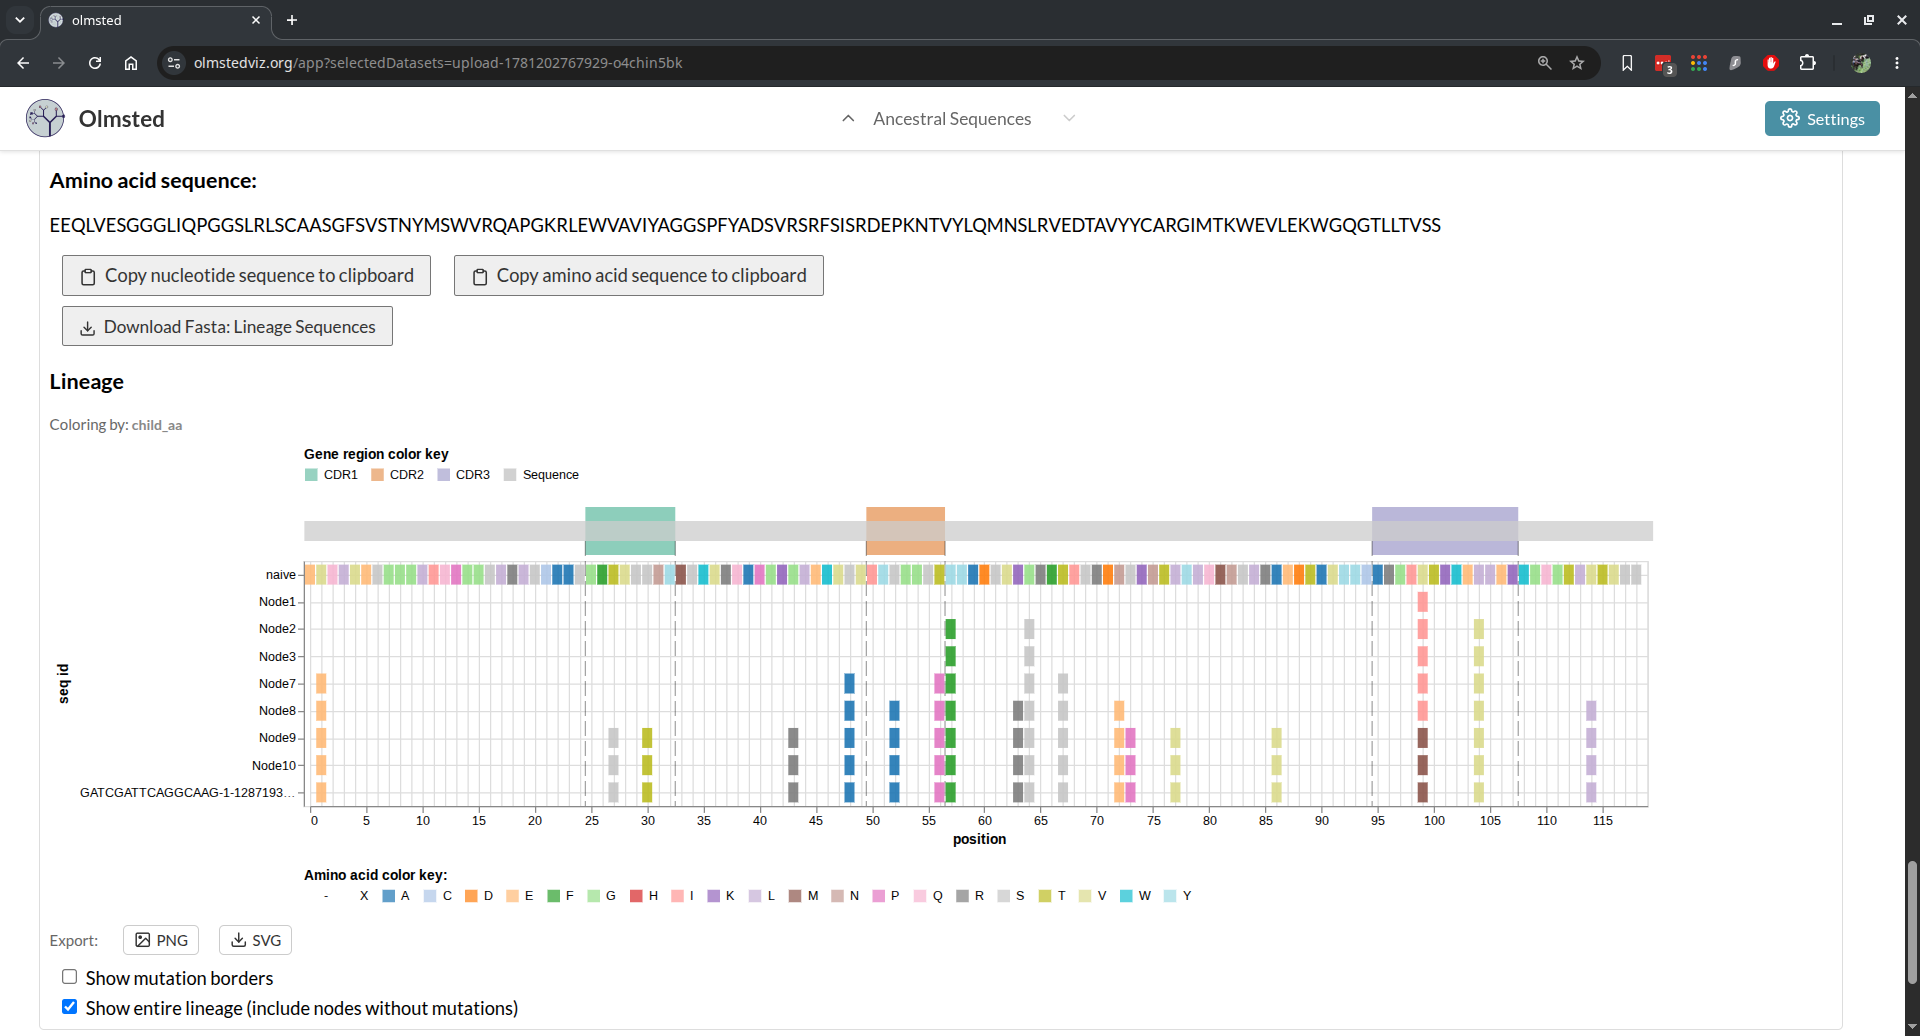
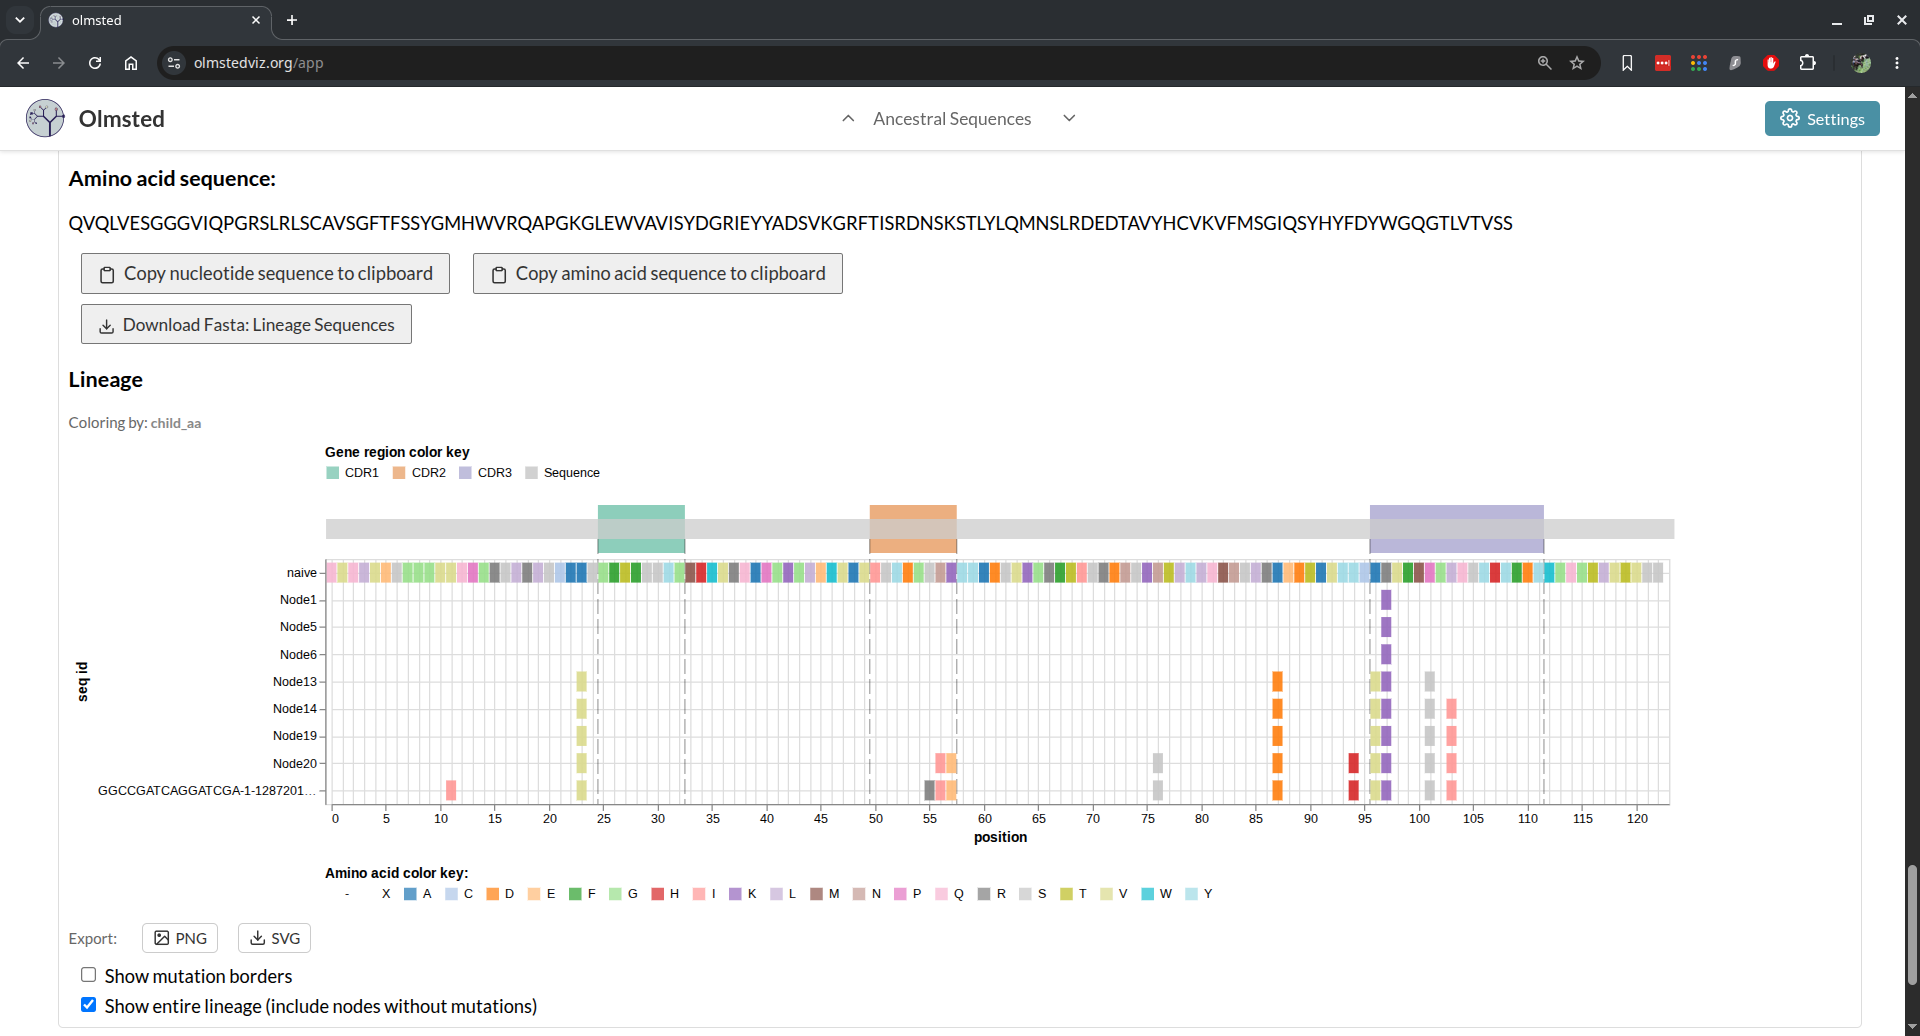
updated images to all section use the same clonal family for example.  Changed V/J to V(D)J.

diff --git a/paper/paper.md b/paper/paper.md
@@ -73,7 +73,7 @@ This multi-scale navigation is delivered through a zero-installation web applica
 Specifically, Olmsted allows users to:
 
 - View all clonal families simultaneously in a configurable scatterplot
-- Filter and select families based on biological criteria (mutation frequency, sequence count, V/J gene usage)
+- Filter and select families based on biological criteria (mutation frequency, sequence count, V(D)J gene usage)
 - Examine phylogenetic trees with aligned sequences showing mutations from the naive ancestor
 - Trace the mutational history of individual sequences back to their germline origin
 - Visualize paired heavy and light chain sequences together, which is essential for selecting antibodies for expression
@@ -126,7 +126,7 @@ Users can brush-select regions or click individual points.
 
 ![Example scatterplot.](./images/2-02-scatterplot.png){height="3in"}
 
-2. **Selected Clonal Families Table**: Displays metadata for selected families, including V/J gene assignments and a visual representation of the recombination event.
+2. **Selected Clonal Families Table**: Displays metadata for selected families, including V(D)J gene assignments and a visual representation of the recombination event.
 The table can be sorted by any column, and families can be starred for easy reference.
 
 ![Example selected clonal families table.](./images/2-03-selected-clonal-families.png){height="3in"}